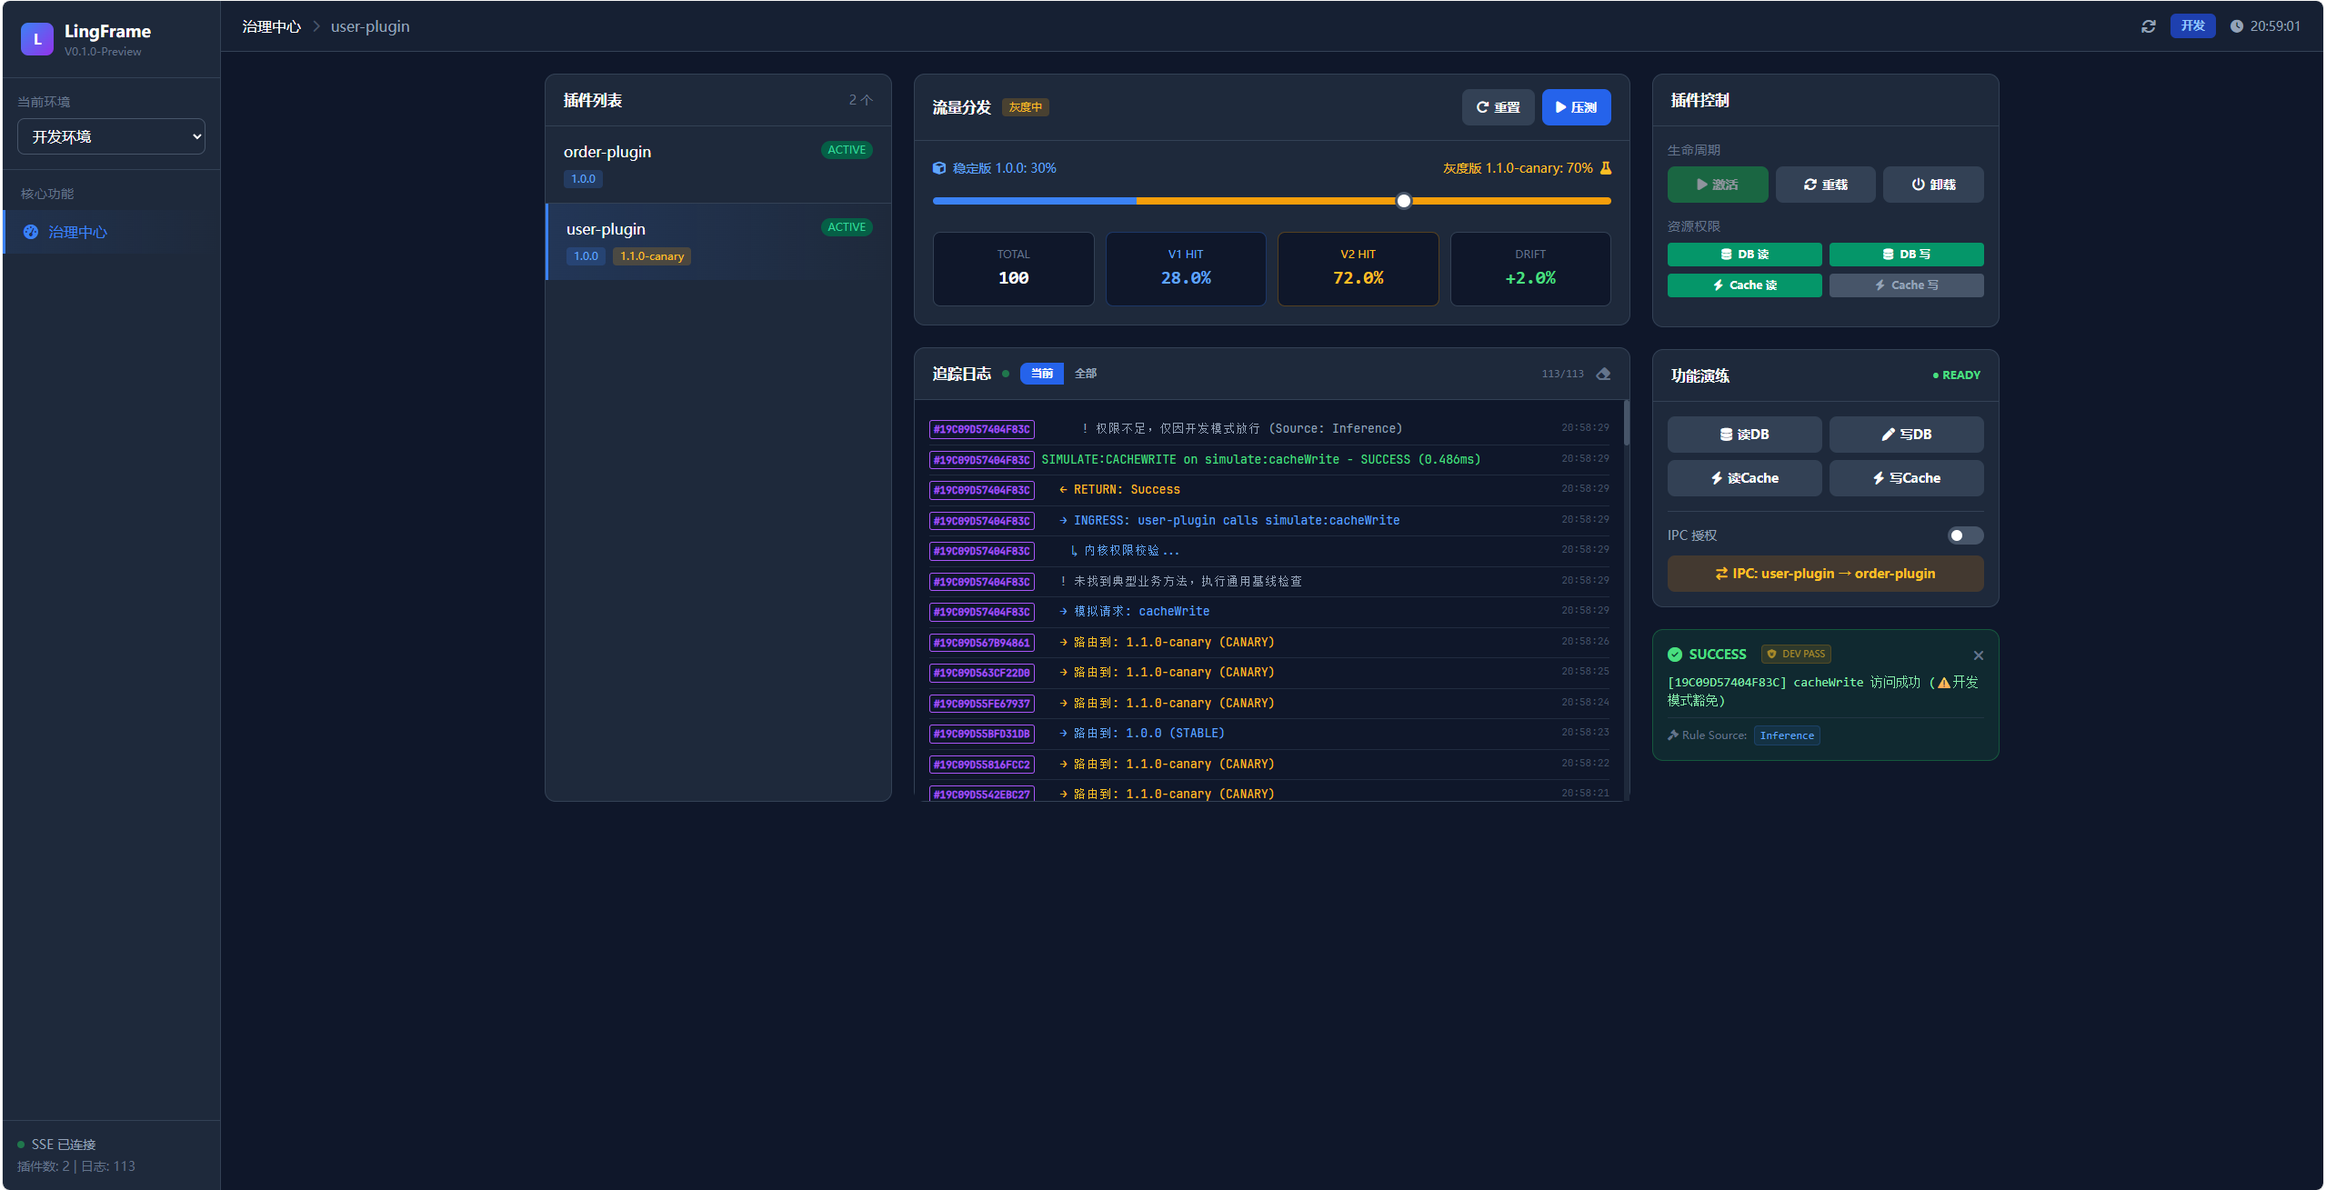
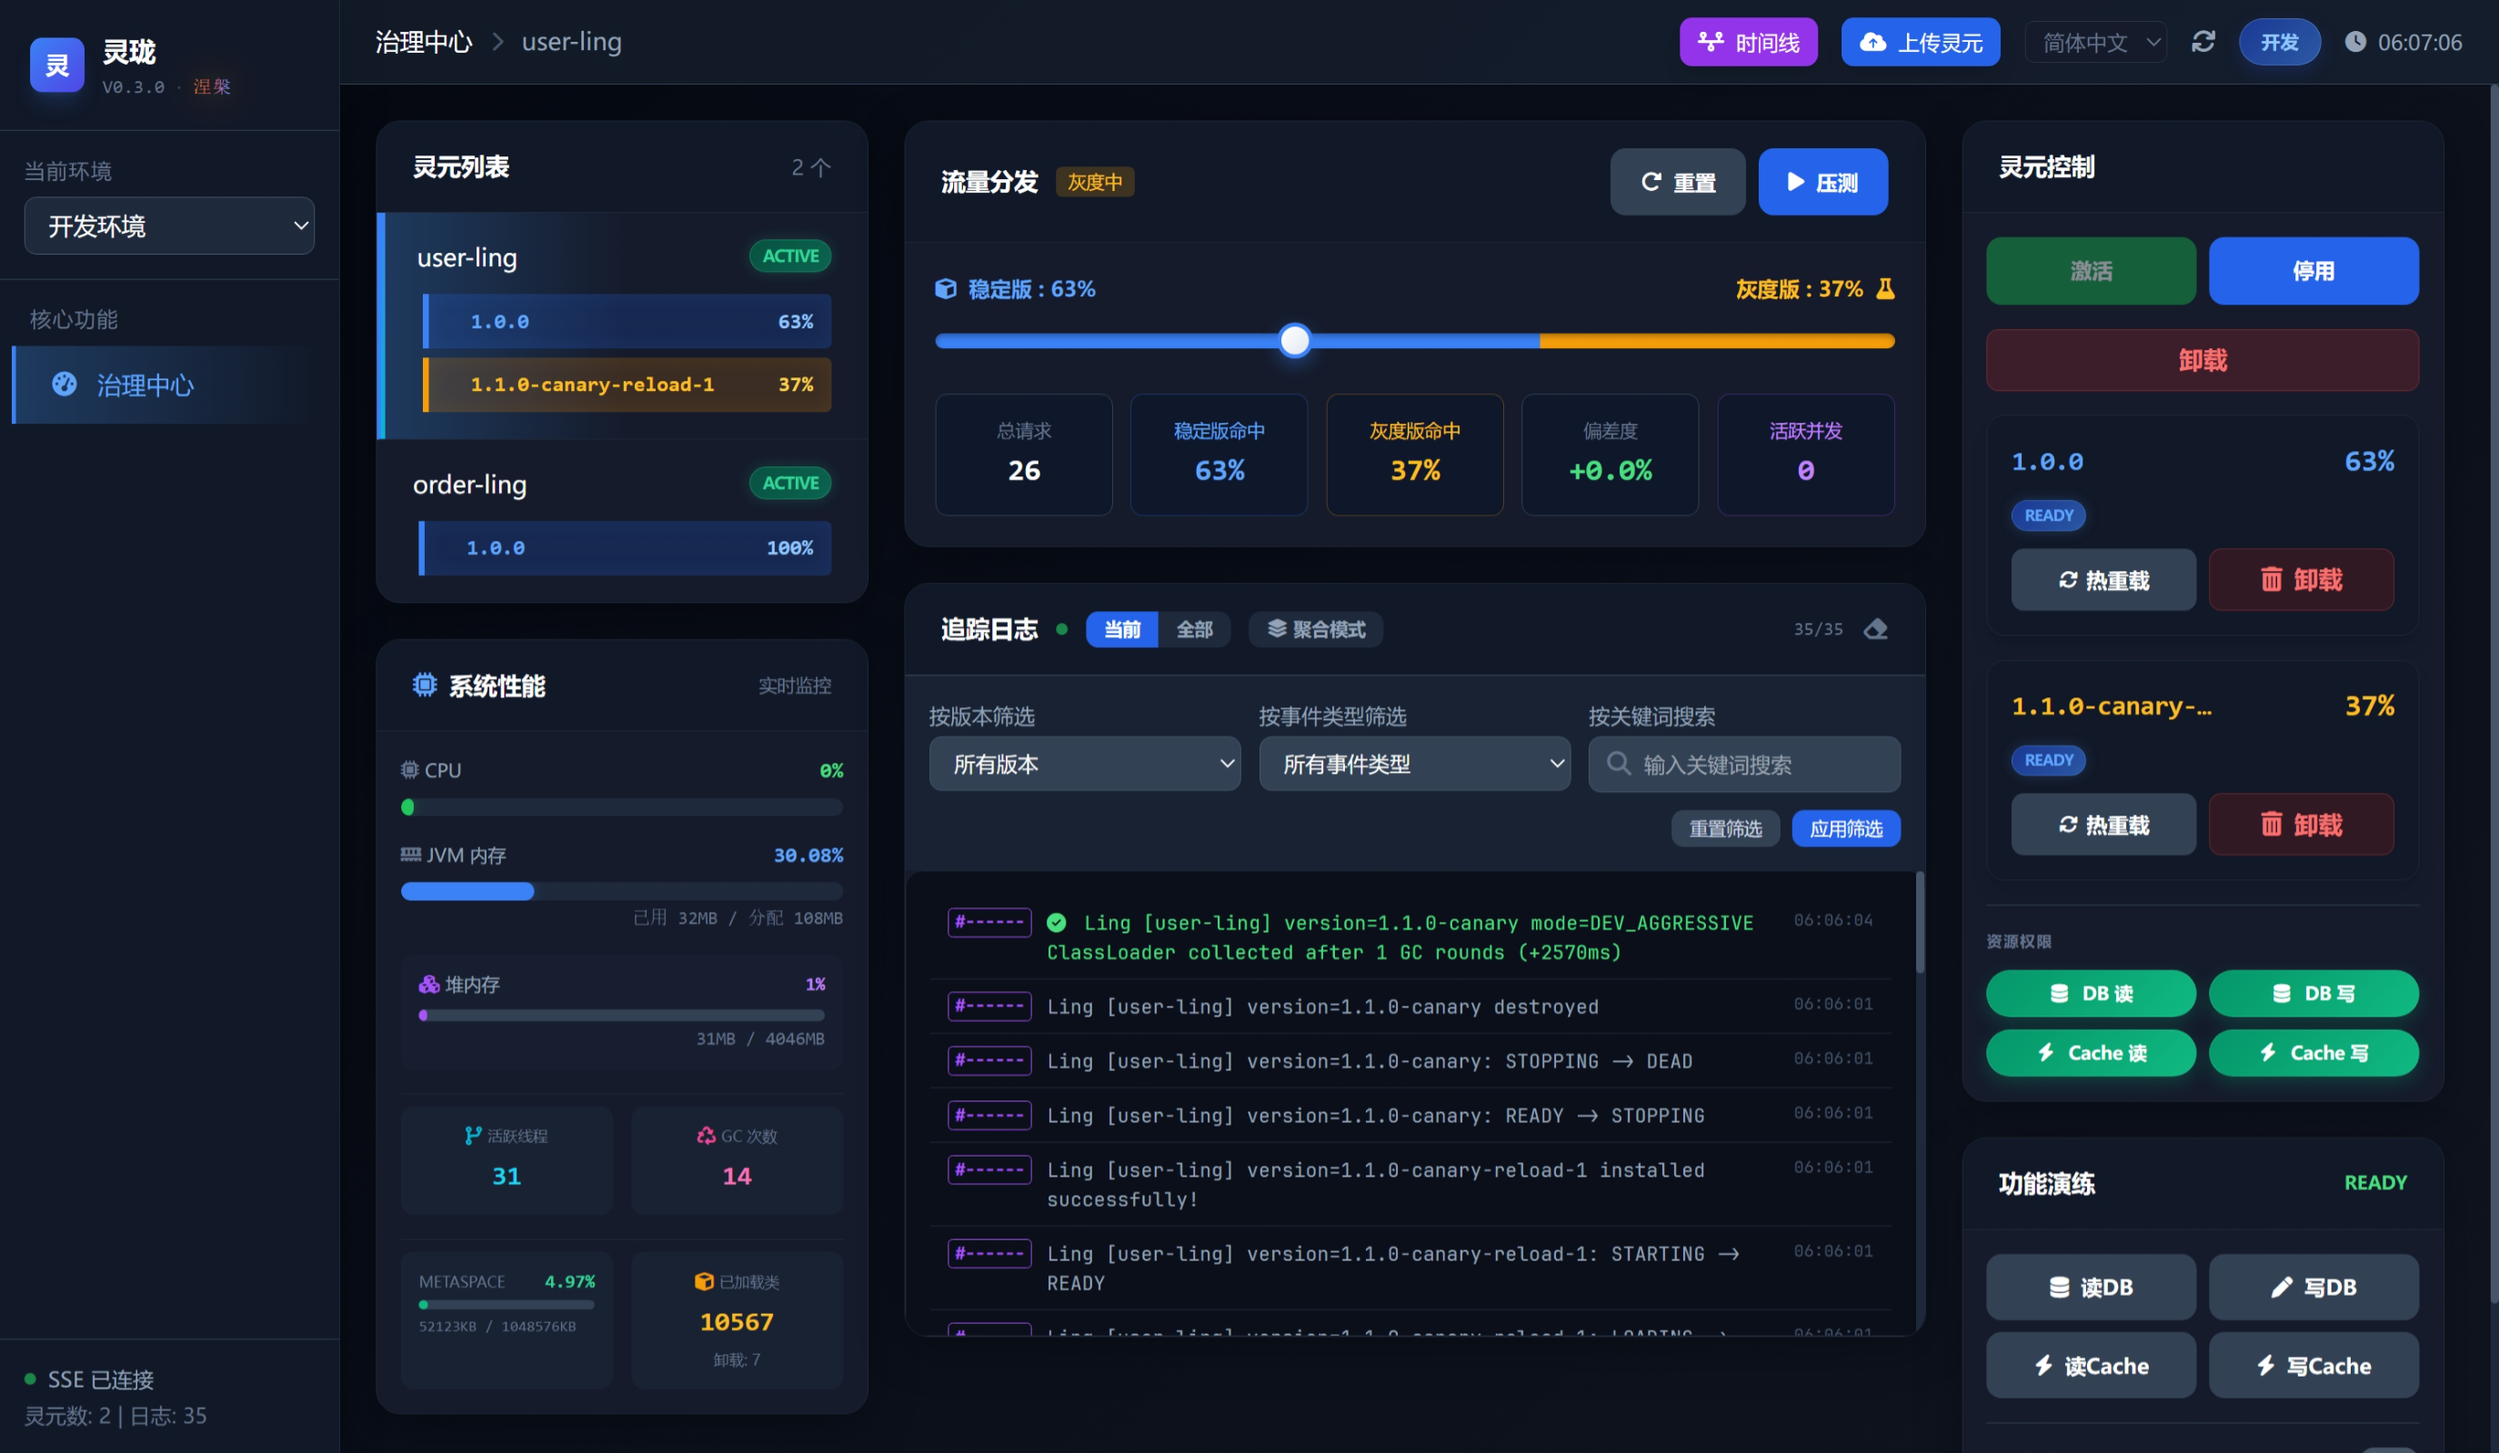
feat(日志): 增加版本字段和日志筛选聚合功能
在 LogStreamDTO 中添加 version 字段以支持按版本筛选日志
新增日志筛选功能，支持按版本、事件类型和关键词筛选
实现日志聚合模式，可合并相同类型的日志条目
更新中英文国际化文件，添加相关翻译文本
优化仪表盘界面，增加筛选控件和聚合模式切换按钮

diff --git a/lingframe-dashboard/src/main/resources/static/js/dashboard.js b/lingframe-dashboard/src/main/resources/static/js/dashboard.js
@@ -100,6 +100,14 @@ createApp({
         let logIdCounter = 0;
         let toastIdCounter = 0;
 
+        // 日志筛选和聚合相关
+        const logAggregationMode = ref(false);
+        const logFilters = reactive({
+            version: '',
+            eventType: '',
+            keyword: ''
+        });
+
         // ==================== 计算属性 ====================
         const activeLing = computed(() => lings.value.find(p => p.lingId === activeId.value));
         const canCanary = computed(() => (activeLing.value?.versionDetails?.length || 0) >= 2);
@@ -112,11 +120,54 @@ createApp({
             disconnected: t('sidebar.sseDisconnected')
         }[sseStatus.value]));
 
+        // 获取可用的版本列表
+        const availableVersions = computed(() => {
+            const versions = new Set();
+            lings.value.forEach(ling => {
+                if (ling.versionDetails) {
+                    ling.versionDetails.forEach(v => {
+                        versions.add(v.version);
+                    });
+                }
+            });
+            return Array.from(versions).sort();
+        });
+
+        // 筛选和聚合日志
         const displayLogs = computed(() => {
+            let filteredLogs = logs.value;
+
+            // 按视图模式筛选
             if (logViewMode.value === 'current' && activeId.value) {
-                return logs.value.filter(l => l.lingId === activeId.value);
+                filteredLogs = filteredLogs.filter(l => l.lingId === activeId.value);
             }
-            return logs.value;
+
+            // 按版本筛选
+            if (logFilters.version) {
+                filteredLogs = filteredLogs.filter(l => l.version === logFilters.version);
+            }
+
+            // 按事件类型筛选
+            if (logFilters.eventType) {
+                filteredLogs = filteredLogs.filter(l => l.type === logFilters.eventType);
+            }
+
+            // 按关键词筛选
+            if (logFilters.keyword) {
+                const keyword = logFilters.keyword.toLowerCase();
+                filteredLogs = filteredLogs.filter(l => 
+                    l.content.toLowerCase().includes(keyword) ||
+                    l.lingId.toLowerCase().includes(keyword) ||
+                    (l.traceId && l.traceId.toLowerCase().includes(keyword))
+                );
+            }
+
+            // 聚合模式
+            if (logAggregationMode.value) {
+                return aggregateLogs(filteredLogs);
+            }
+
+            return filteredLogs;
         });
 
         // ==================== Toast 通知 ====================
@@ -853,6 +904,7 @@ createApp({
                 id: ++logIdCounter,
                 traceId: data.traceId,
                 lingId: data.lingId,
+                version: data.version,
                 content: data.content,
                 type: data.type,
                 tag: data.tag,
@@ -886,6 +938,50 @@ createApp({
             if (logContainer.value) {
                 isUserScrolling.value = logContainer.value.scrollTop > 50;
             }
+        };
+
+        // 聚合日志
+        const aggregateLogs = (logs) => {
+            const aggregated = {};
+
+            logs.forEach(log => {
+                // 按类型、内容和版本聚合
+                const key = `${log.type || 'UNKNOWN'}-${log.content}-${log.version || 'UNKNOWN'}`;
+                if (!aggregated[key]) {
+                    aggregated[key] = {
+                        id: ++logIdCounter,
+                        type: log.type,
+                        content: log.content,
+                        lingId: log.lingId,
+                        version: log.version,
+                        count: 0,
+                        firstTimestamp: log.timestamp,
+                        lastTimestamp: log.timestamp,
+                        logs: []
+                    };
+                }
+                
+                const entry = aggregated[key];
+                entry.count++;
+                entry.firstTimestamp = Math.min(entry.firstTimestamp, log.timestamp);
+                entry.lastTimestamp = Math.max(entry.lastTimestamp, log.timestamp);
+                entry.logs.push(log);
+            });
+
+            // 转换为数组并按最后时间排序
+            return Object.values(aggregated).sort((a, b) => b.lastTimestamp - a.firstTimestamp);
+        };
+
+        // 筛选日志
+        const filterLogs = () => {
+            // 筛选逻辑已在displayLogs计算属性中实现
+        };
+
+        // 重置日志筛选
+        const resetLogFilters = () => {
+            logFilters.version = '';
+            logFilters.eventType = '';
+            logFilters.keyword = '';
         };
 
         const scrollToTop = () => {
@@ -1169,19 +1265,19 @@ createApp({
             locale, supportedLocales, switchLocale, t,
 
             lings, activeId, canaryPct, isAuto, ipcEnabled, ipcTarget,
-            logs, lastAudit, logViewMode, logContainer, isUserScrolling, sidebarOpen,
+            logs, lastAudit, logViewMode, logAggregationMode, logFilters, logContainer, isUserScrolling, sidebarOpen,
             currentEnv, currentTime, sseStatus, sseStatusText,
             stats, loading, modal, toasts, envLabels, uploadModal, timelineModal,
 
             perfMetrics,
             lingHealthMetrics,
 
-            activeLing, canCanary, canOperate, canActivate, canDeactivate, displayLogs,
+            activeLing, canCanary, canOperate, canActivate, canDeactivate, displayLogs, availableVersions,
 
             refreshLings, selectLing, updateStatus, requestUnload,
             confirmModalAction, updateCanaryConfig, updateCanaryConfigLocally, resetCanary, togglePerm, toggleIpc,
             simulate, simulateIPC, toggleAuto, resetStats, clearLogs,
-            handleLogScroll, scrollToTop,
+            handleLogScroll, scrollToTop, filterLogs, resetLogFilters,
             formatDrift, formatTime, formatSize,
             getStatusClass, getLingShortName, getLingTagClass, getLogColor,
             getTimelineEventClass, getTimelineEventIcon, getTimelineEventTypeClass,

diff --git a/lingframe-dashboard/src/main/resources/static/dashboard.html b/lingframe-dashboard/src/main/resources/static/dashboard.html
@@ -684,12 +684,55 @@
                                             {{ t('logs.all') }}
                                         </button>
                                     </div>
+                                    <button @click="logAggregationMode = !logAggregationMode"
+                                        :class="logAggregationMode ? 'bg-purple-600 text-white' : 'bg-slate-800 text-slate-400 hover:text-white'"
+                                        class="px-3 py-1 text-xs font-bold transition-all rounded-lg flex items-center gap-1">
+                                        <i class="fa-solid fa-layer-group"></i>
+                                        {{ t('logs.aggregationMode') }}
+                                    </button>
                                 </div>
                                 <div class="flex items-center gap-3 text-slate-500">
                                     <span class="text-xs font-mono">{{ displayLogs.length }}/{{ logs.length
                                         }}</span>
                                     <button @click="clearLogs" class="hover:text-white transition-all">
                                         <i class="fa-solid fa-eraser"></i>
+                                    </button>
+                                </div>
+                            </div>
+                            <!-- 日志筛选栏 -->
+                            <div class="p-4 border-t border-slate-700 bg-slate-800/50">
+                                <div class="grid grid-cols-1 md:grid-cols-3 gap-3">
+                                    <div>
+                                        <label class="text-sm text-slate-400 block mb-1">{{ t('logs.filterByVersion') }}</label>
+                                        <select v-model="logFilters.version" class="w-full bg-slate-700 border border-slate-600 rounded-lg px-3 py-2 text-white text-sm focus:outline-none focus:border-blue-500 transition-colors">
+                                            <option value="">{{ t('logs.allVersions') }}</option>
+                                            <option v-for="version in availableVersions" :key="version" :value="version">{{ version }}</option>
+                                        </select>
+                                    </div>
+                                    <div>
+                                        <label class="text-sm text-slate-400 block mb-1">{{ t('logs.filterByEventType') }}</label>
+                                        <select v-model="logFilters.eventType" class="w-full bg-slate-700 border border-slate-600 rounded-lg px-3 py-2 text-white text-sm focus:outline-none focus:border-blue-500 transition-colors">
+                                            <option value="">{{ t('logs.allEventTypes') }}</option>
+                                            <option value="LOADING">{{ t('logs.eventTypeLoading') }}</option>
+                                            <option value="UNLOADING">{{ t('logs.eventTypeUnloading') }}</option>
+                                            <option value="GC">{{ t('logs.eventTypeGC') }}</option>
+                                            <option value="ERROR">{{ t('logs.eventTypeError') }}</option>
+                                        </select>
+                                    </div>
+                                    <div>
+                                        <label class="text-sm text-slate-400 block mb-1">{{ t('logs.filterByKeyword') }}</label>
+                                        <div class="relative">
+                                            <input v-model="logFilters.keyword" @input="filterLogs" type="text" :placeholder="t('logs.keywordPlaceholder')" class="w-full bg-slate-700 border border-slate-600 rounded-lg px-3 py-2 text-white text-sm focus:outline-none focus:border-blue-500 transition-colors pl-9">
+                                            <i class="fa-solid fa-search absolute left-3 top-1/2 transform -translate-y-1/2 text-slate-500"></i>
+                                        </div>
+                                    </div>
+                                </div>
+                                <div class="mt-3 flex justify-end gap-2">
+                                    <button @click="resetLogFilters" class="px-3 py-1 text-xs bg-slate-700 text-slate-300 rounded-lg hover:bg-slate-600 transition-colors">
+                                        {{ t('logs.resetFilters') }}
+                                    </button>
+                                    <button @click="filterLogs" class="px-3 py-1 text-xs bg-blue-600 text-white rounded-lg hover:bg-blue-500 transition-colors">
+                                        {{ t('logs.applyFilters') }}
                                     </button>
                                 </div>
                             </div>

diff --git a/lingframe-dashboard/src/main/java/com/lingframe/dashboard/service/LogStreamService.java b/lingframe-dashboard/src/main/java/com/lingframe/dashboard/service/LogStreamService.java
@@ -273,6 +273,7 @@ public class LogStreamService implements InitializingBean, DisposableBean {
         LogStreamDTO logStreamDTO = LogStreamDTO.builder()
                 .type("ALERT")
                 .lingId(event.getLingId())
+                .version(event.getVersion())
                 .content(content)
                 .tag("STATE_CHANGE")
                 .level(level)
@@ -316,6 +317,7 @@ public class LogStreamService implements InitializingBean, DisposableBean {
         LogStreamDTO logStreamDTO = LogStreamDTO.builder()
                 .type("ALERT")
                 .lingId(event.getLingId())
+                .version(event.getVersion())
                 .content(content)
                 .tag("INSTANCE_DESTROYED")
                 .level("WARNING")
@@ -334,6 +336,7 @@ public class LogStreamService implements InitializingBean, DisposableBean {
         LogStreamDTO logStreamDTO = LogStreamDTO.builder()
                 .type("ALERT")
                 .lingId(event.getLingId())
+                .version(event.getVersion())
                 .content(content)
                 .tag("LING_INSTALLING")
                 .level("INFO")
@@ -352,6 +355,7 @@ public class LogStreamService implements InitializingBean, DisposableBean {
         LogStreamDTO logStreamDTO = LogStreamDTO.builder()
                 .type("ALERT")
                 .lingId(event.getLingId())
+                .version(event.getVersion())
                 .content(content)
                 .tag("LING_INSTALLED")
                 .level("INFO")
@@ -370,6 +374,7 @@ public class LogStreamService implements InitializingBean, DisposableBean {
         LogStreamDTO logStreamDTO = LogStreamDTO.builder()
                 .type("ALERT")
                 .lingId(event.getLingId())
+                .version(event.getVersion())
                 .content(content)
                 .tag("LING_UNINSTALLING")
                 .level("WARNING")
@@ -388,6 +393,7 @@ public class LogStreamService implements InitializingBean, DisposableBean {
         LogStreamDTO logStreamDTO = LogStreamDTO.builder()
                 .type("ALERT")
                 .lingId(event.getLingId())
+                .version(event.getVersion())
                 .content(content)
                 .tag("LING_UNINSTALLED")
                 .level("INFO")

diff --git a/lingframe-dashboard/src/main/java/com/lingframe/dashboard/dto/LogStreamDTO.java b/lingframe-dashboard/src/main/java/com/lingframe/dashboard/dto/LogStreamDTO.java
@@ -9,6 +9,7 @@ public class LogStreamDTO {
     private String type;      // TRACE / AUDIT / ALERT / LEAK_DETECTION / STATE_CHANGE
     private String traceId;
     private String lingId;
+    private String version;
     private String content;
     private String tag;       // 辅助标签 (OK, FAIL, IN, OUT, INFO, WARNING, ERROR, CRITICAL)
     private int depth;        // 缩进深度
